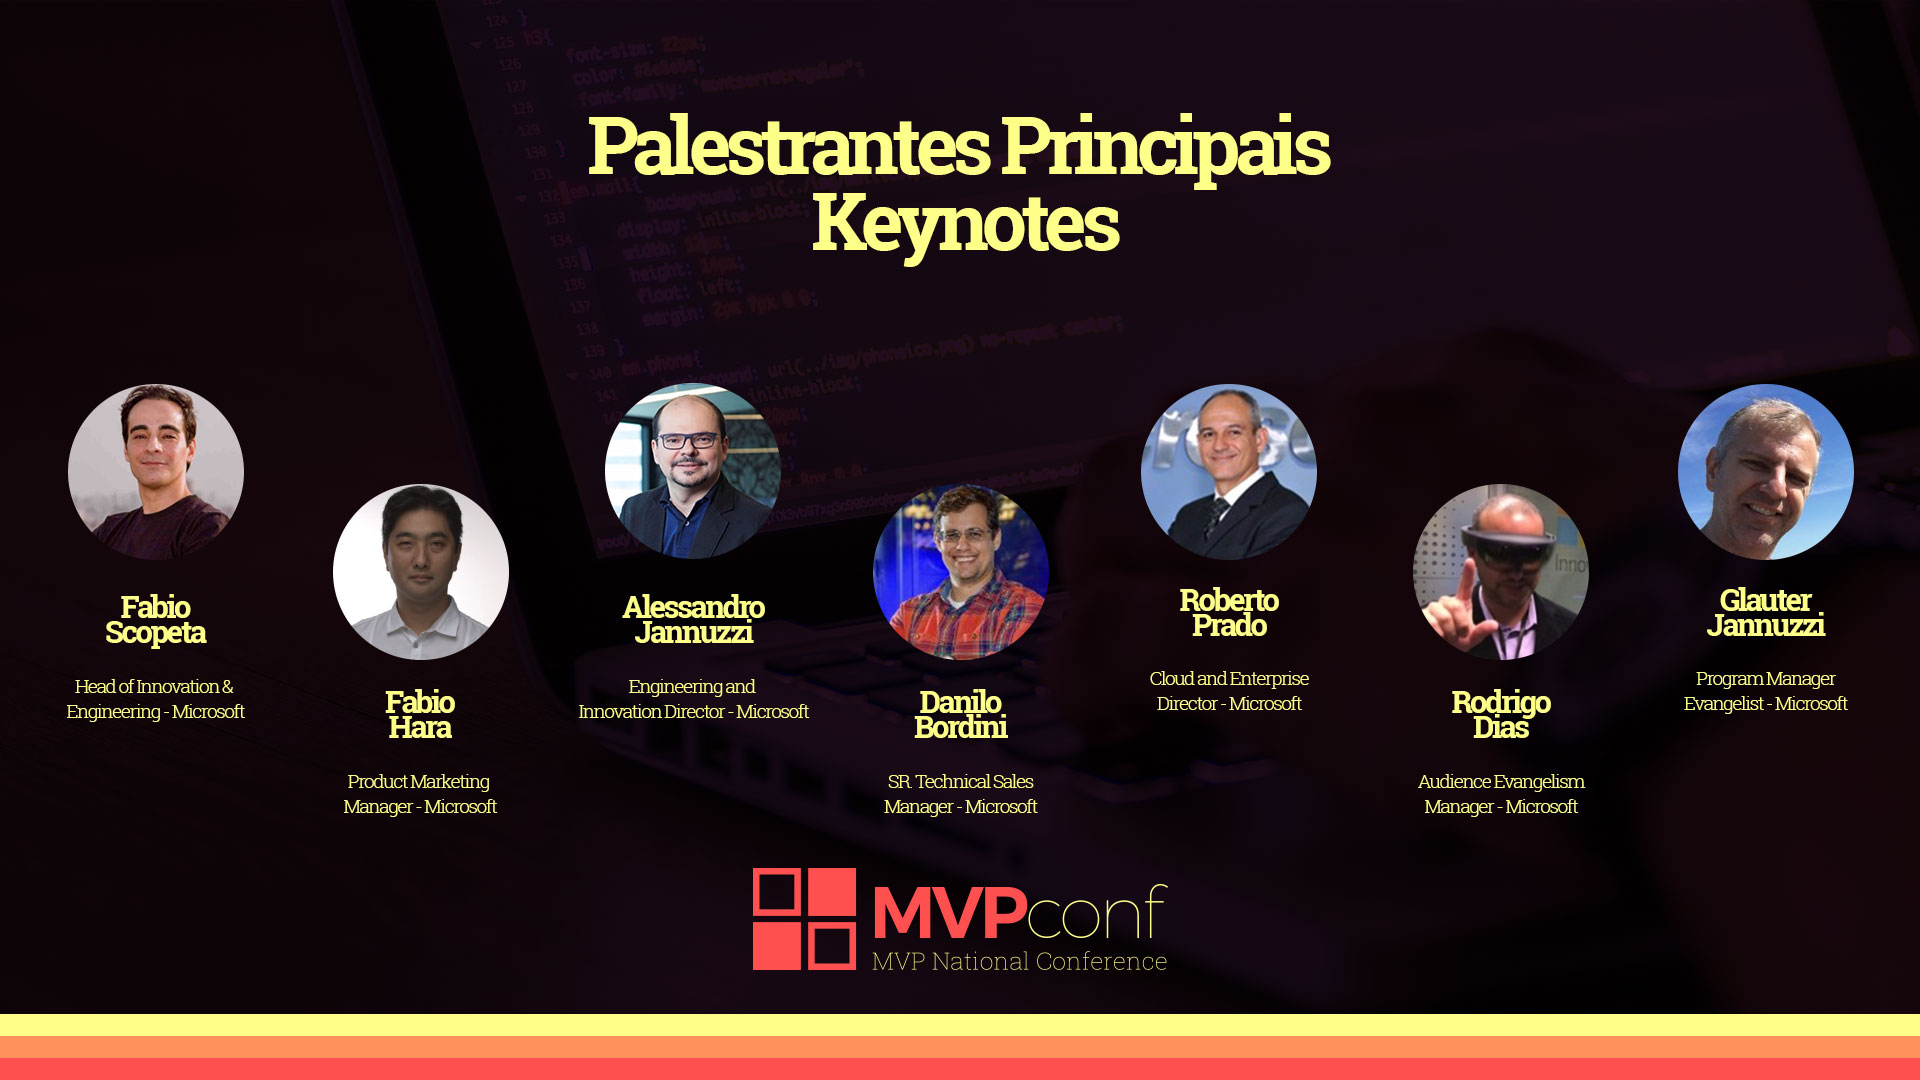
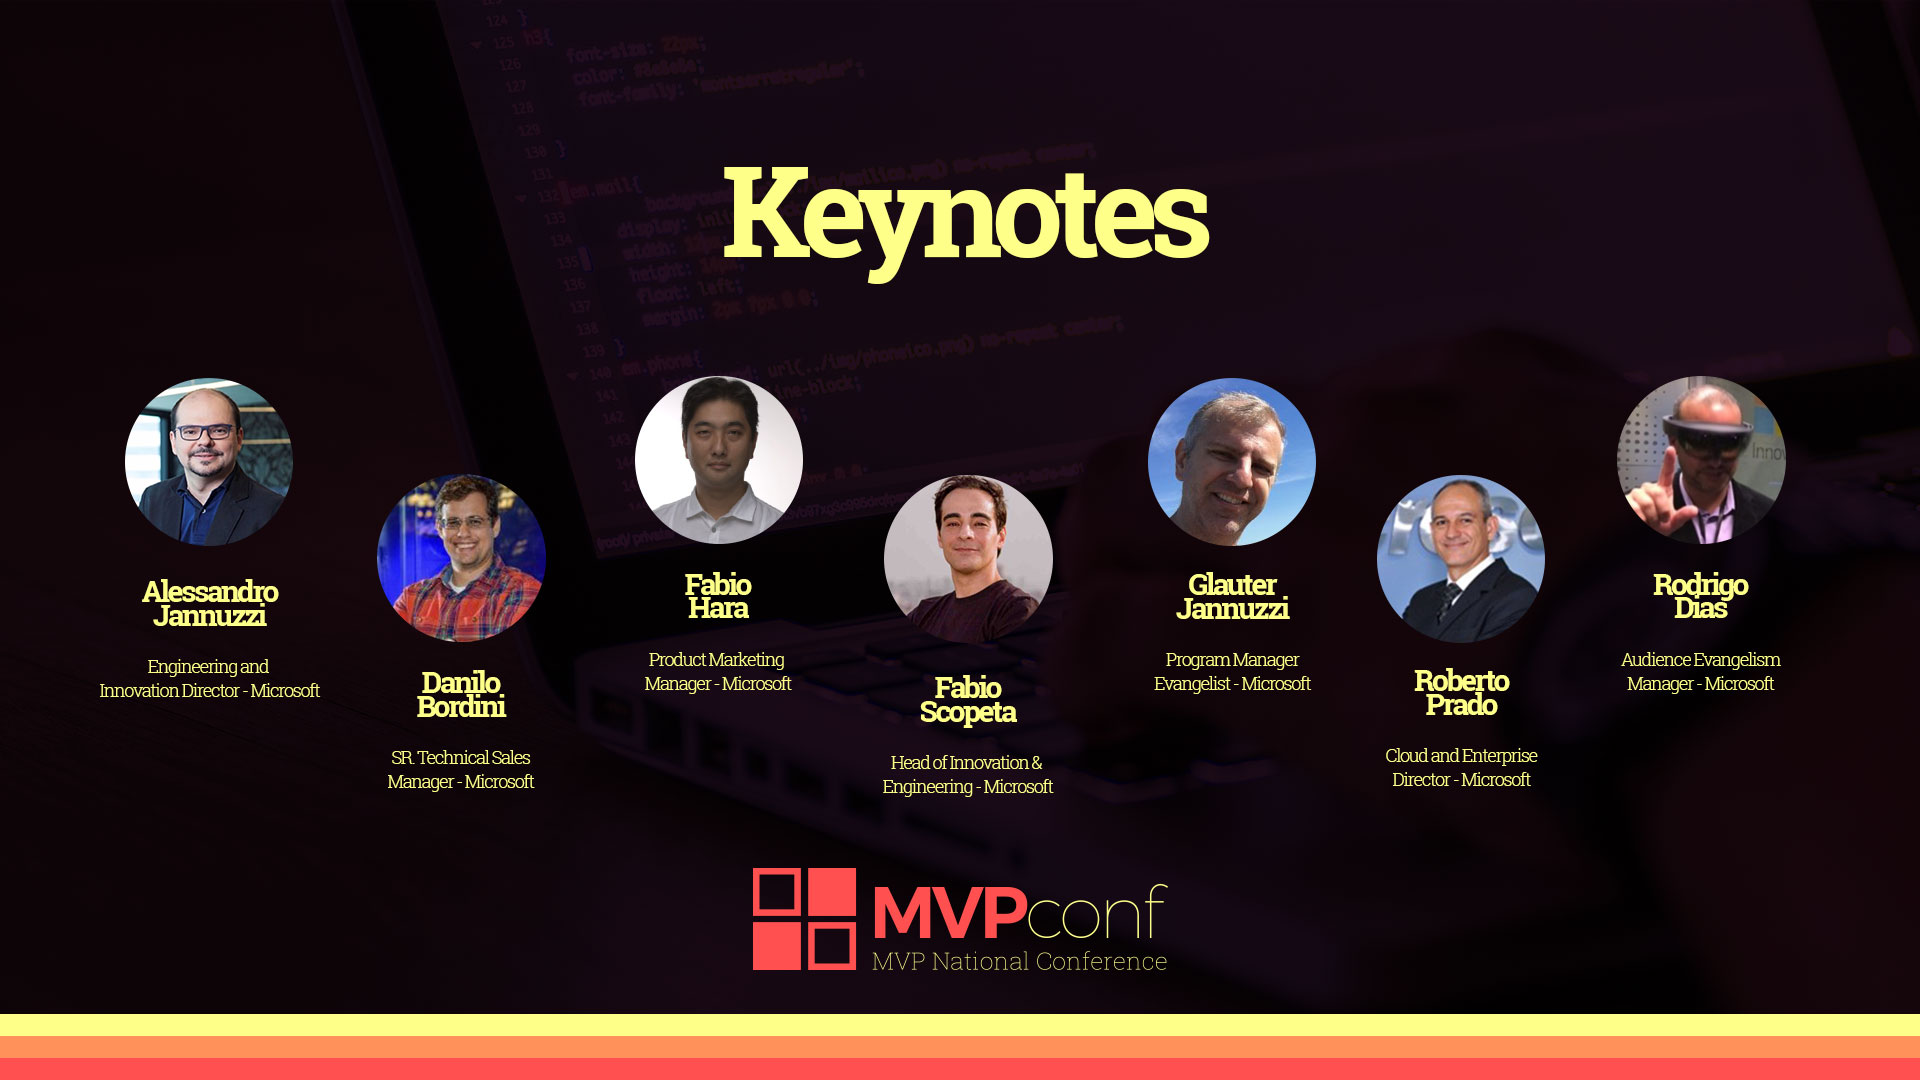
Adição da imagem dos keynotes

diff --git a/index.html b/index.html
@@ -110,7 +110,7 @@
               </div>
             </header>
           </div>
-          <!-- <div class="carousel-item">
+          <div class="carousel-item">
             <header class="masthead">
                 <br />
                 <br />
@@ -118,7 +118,7 @@
                 <br />
                 <img src="img/banner00.jpg" class="img-fluid" />
             </header>
-          </div> -->
+          </div>
       </div>
   </div>
   <!-- sessão - sobre -->
